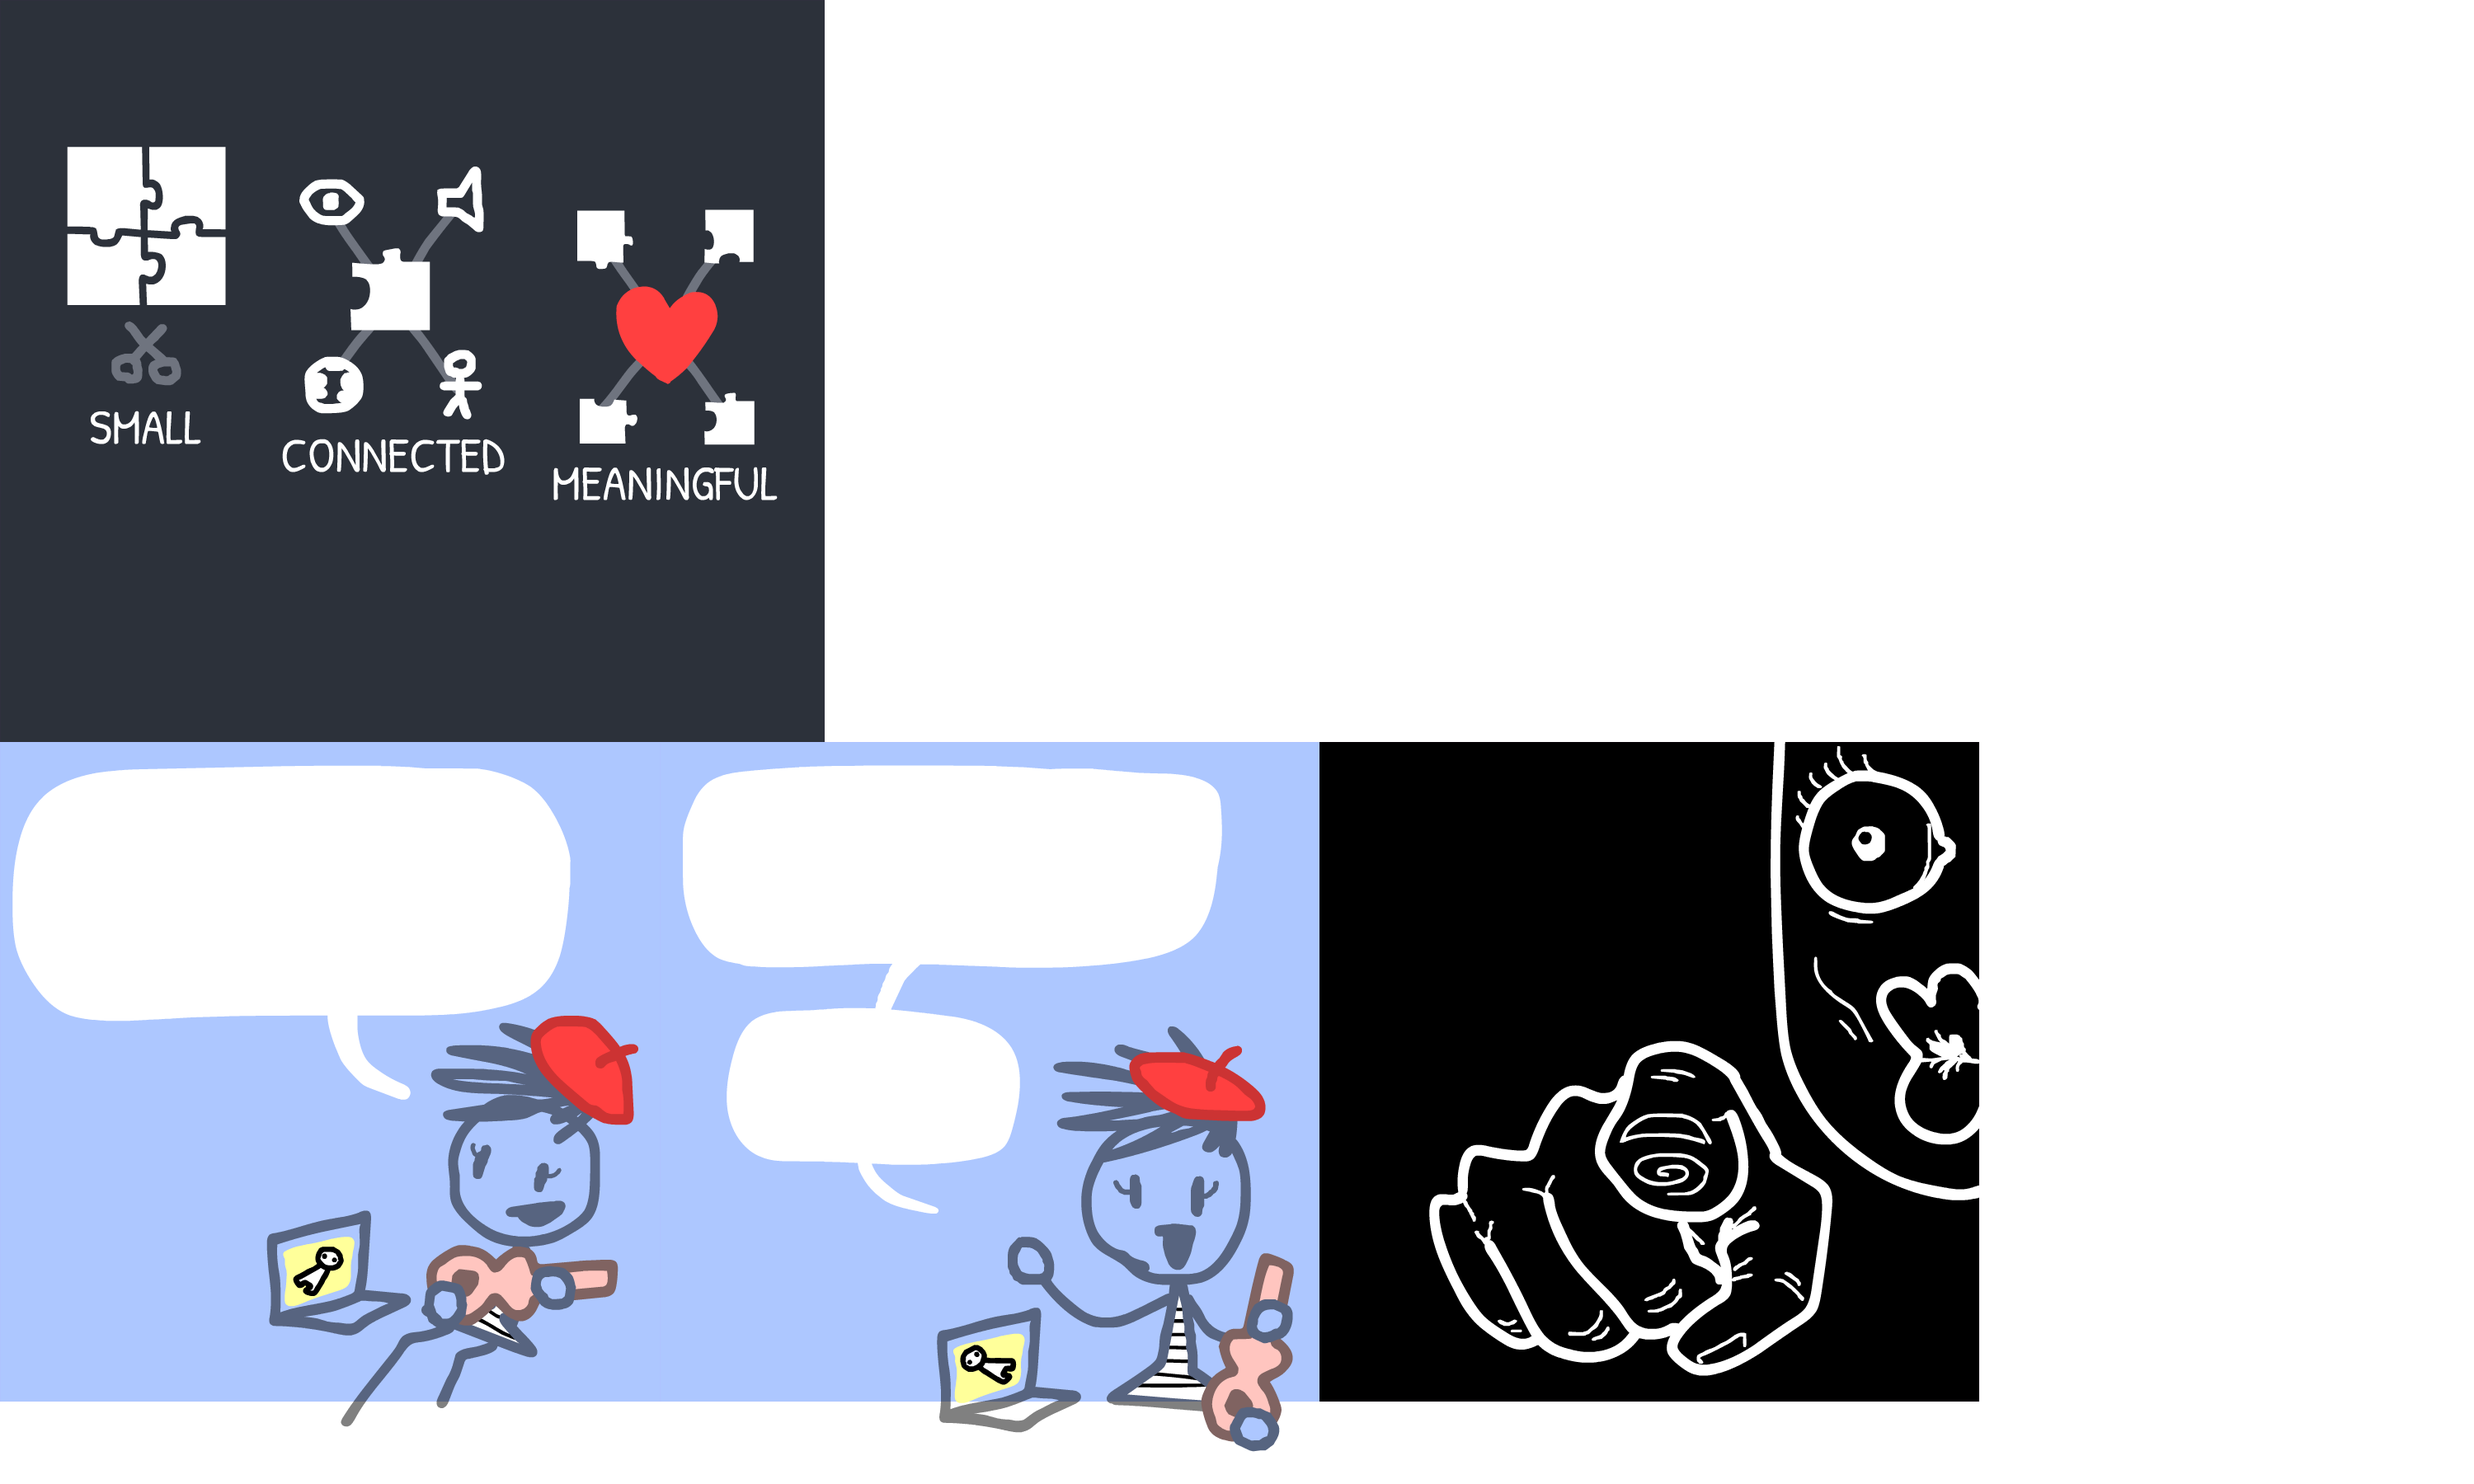
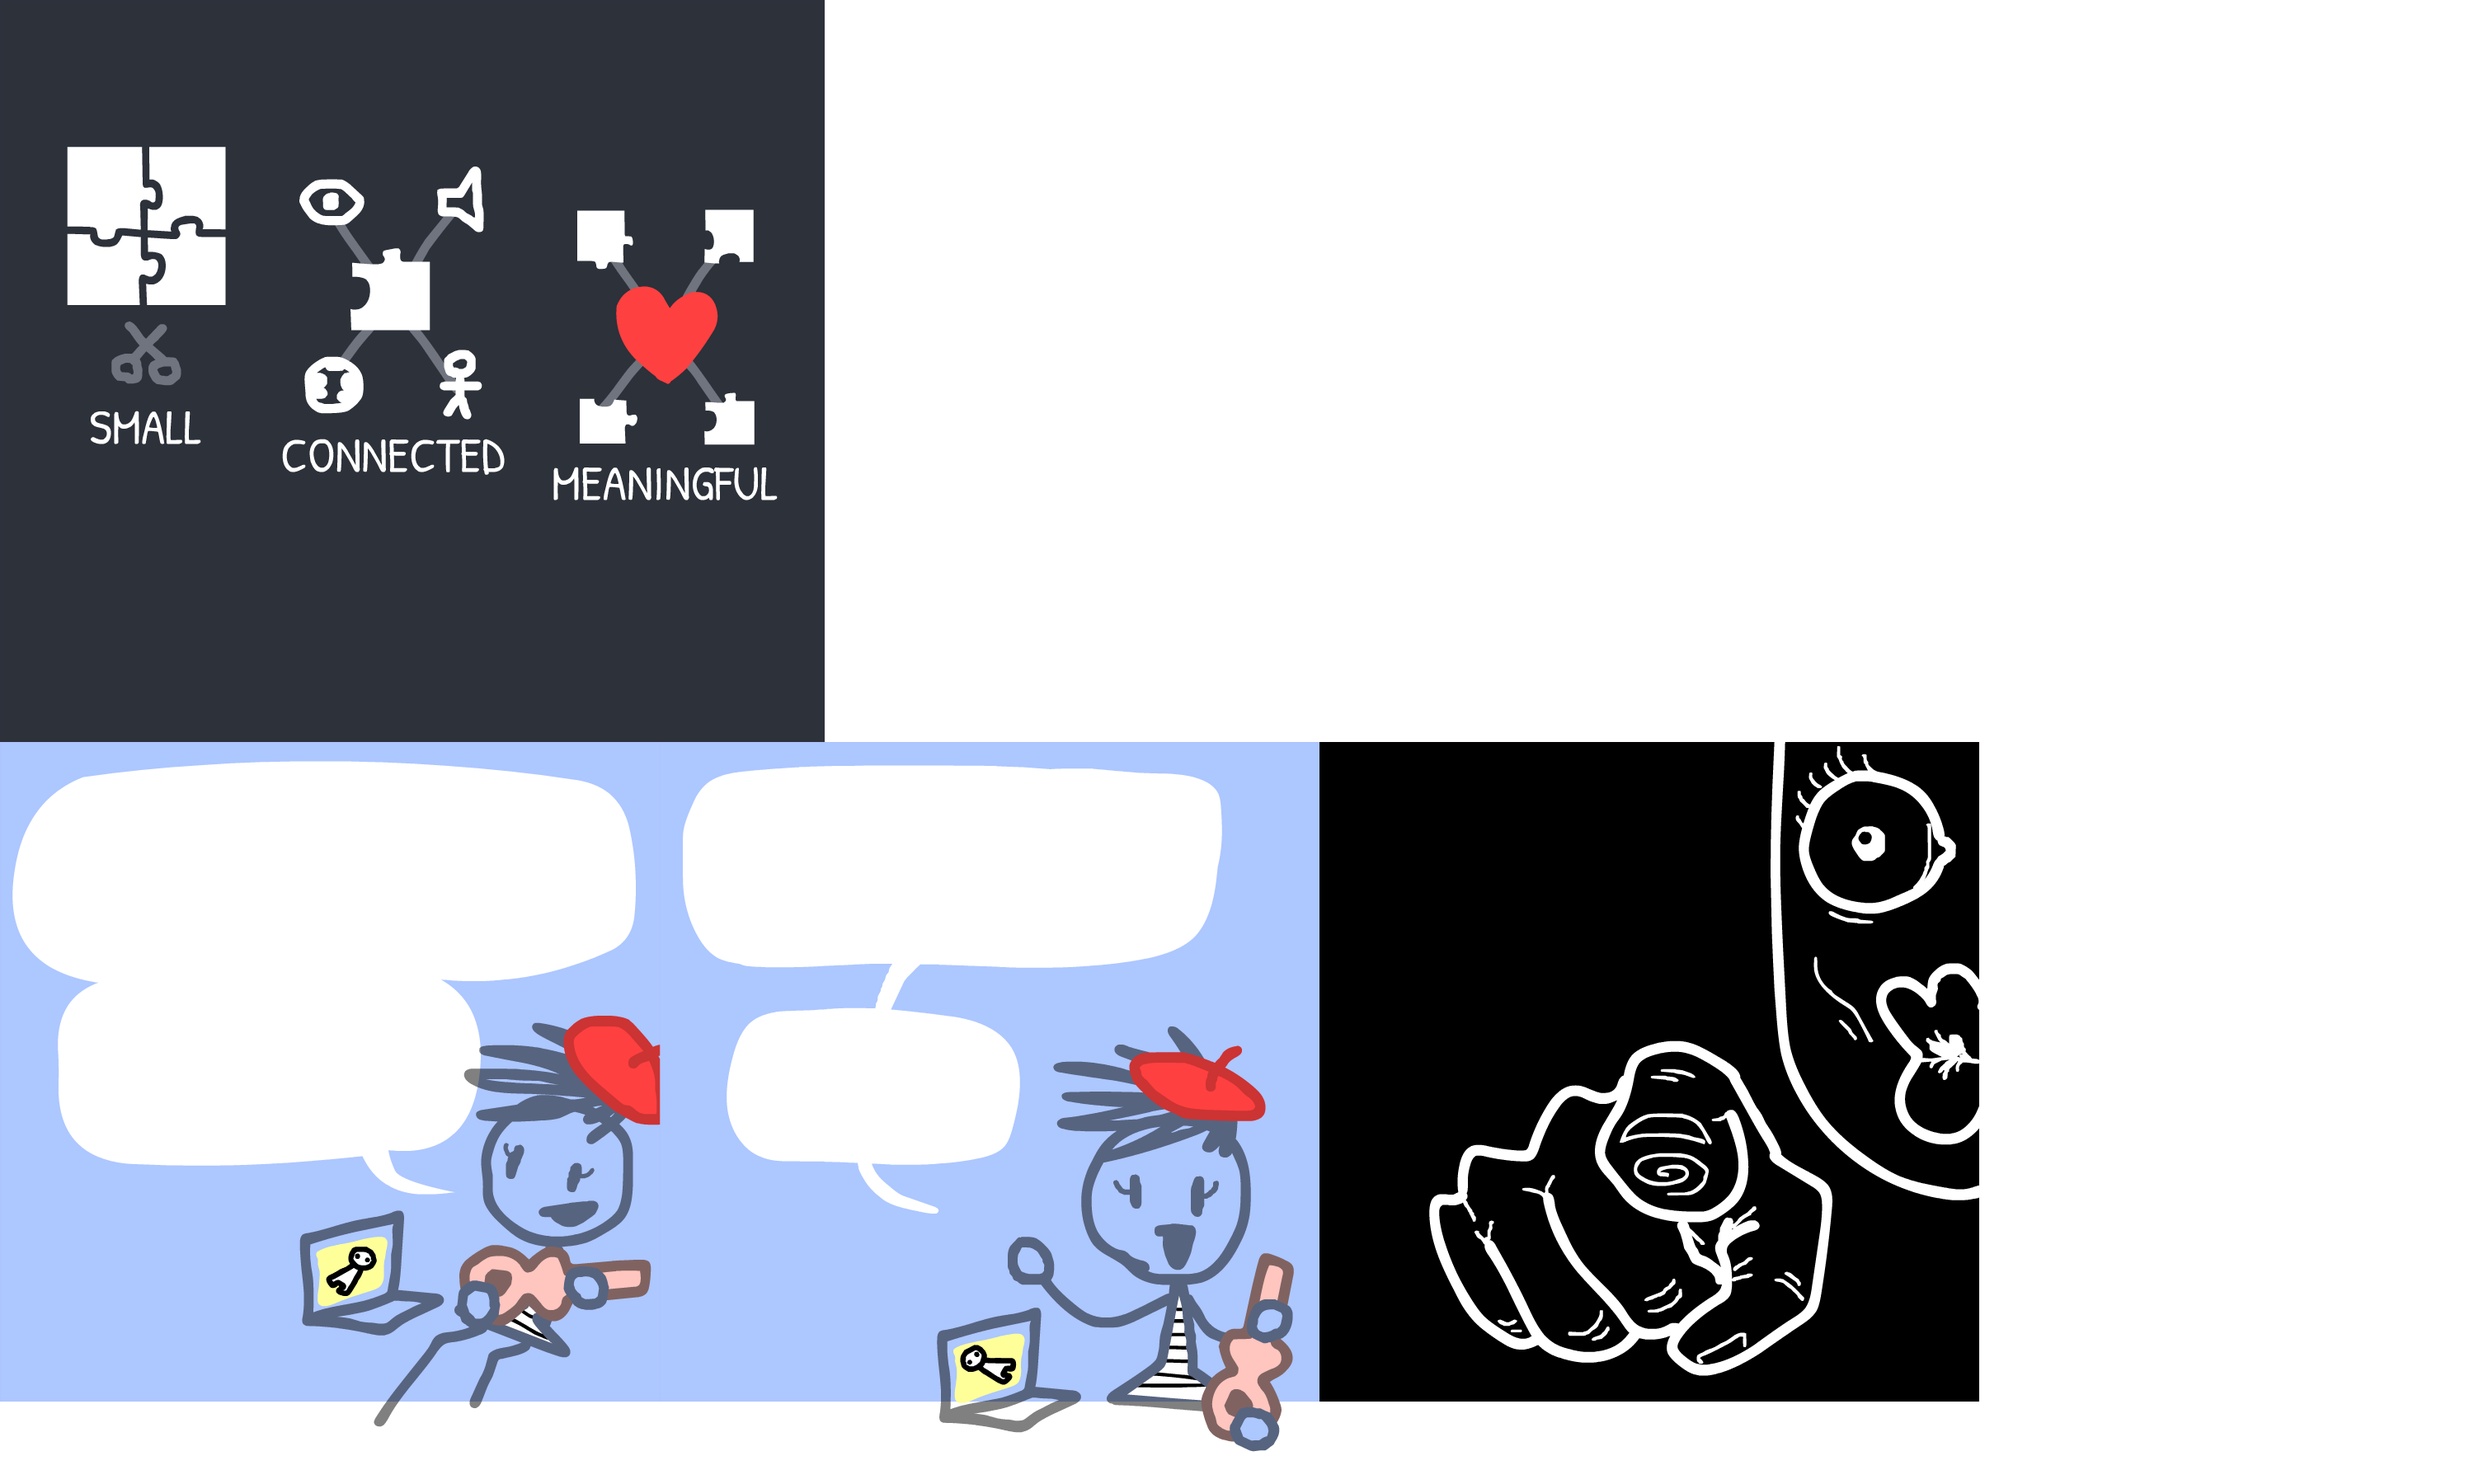
CHAPTER TWO FIXED

Changed region(s): [[0.0, 0.6222, 0.279, 0.9644], [0.217, 0.4978, 0.279, 0.6533], [0.093, 0.4978, 0.124, 0.5289]]

diff --git a/ch2_old.html b/ch2_old.html
@@ -63,57 +63,46 @@ if you haven't already.)
 </words>
 </panel>
 
-<panel w=500 h=370>
-<pic src="pics/leit0.png" sx=0 sy=480></pic>
-<words x=10 y=10 w=430 h=30>
-	All new flashcards start at Level 1.
+<panel w=500 h=400>
+<pic></pic>
+<words x=10 y=10 w=430 h=60>
+	All new cards start at Level 1, then get promoted to higher Levels
+	as your memory of them improves. (I'll explain the details later)
 </words>
-<words x=30 y=270 w=430 h=60>
-	(If you're new to Spaced Repetition, I recommend starting with 5 new cards a day.)
+<words x=30 y=300 w=430 h=60>
+	Thus: Level 1 cards have fast memory-decay, Level 2 cards have slower memory-decay, etc.
+</words>
+</panel>
+
+
+<panel w=500 h=400>
+<pic src="pics/leit0.png" sx=0 sy=1300></pic>
+<words x=10 y=10 w=430 h=90>
+	But remember, we have to try recalling a card <i>just as we're about to forget it</i>.
+</words>
+<words x=30 y=270 w=430 h=90>
+	And as we saw earlier,
+	you do this by scheduling recalls with <i>increasing gaps of time</i>.
 </words>
 </panel>
 
 <panel w=500 h=400>
-<pic src="pics/leit0.png" sx=500 sy=480></pic> <!-- valhalla -->
-<words x=10 y=10 w=430 h=60>
-	When you review a card, and get it right, it moves up <i>one</i> Level.
+<pic src="pics/leit0.png" sx=0 sy=1300></pic>
+<words x=10 y=10 w=430 h=90>
+	That's why, in the Leitner Box,
+	we review Level 1 cards every day,
+	Level 2 every two days,
+	Level 3 every <i>FOUR</i> days,
+	Level 4 every <i>EIGHT</i> days... and so on.
 </words>
-<words x=30 y=300 w=430 h=60>
-	(If you're at the final Level, congrats!
-	Your card gets to retire in your long-term memory)
-</words>
-</panel>
-
-<panel w=500 h=430>
-<pic src="pics/leit0.png" sx=0 sy=900></pic> <!-- HIGH STAKES -->
-<words x=10 y=10 w=430 h=60>
-	But if you review a card, and get it wrong... it has to go
-	<i>all the way back down to Level 1.</i>
-</words>
-<words x=30 y=300 w=430 h=90>
-	(If it's already at Level 1, good news:
-	you can keep testing yourself on it until you get it right,
-	and move it up to Level 2)
-</words>
-</panel>
-
-<panel w=500 h=400>
-<pic src="pics/leit0.png" sx=0 sy=1370></pic>
-<words x=10 y=10 w=430 h=120>
-	But <i>when</i> do we review cards?
-	That's the trick.
-	In the Leitner Box, we review Level 1 cards every day,
-	Level 2 every two days, Level 3 every <i>FOUR</i> days,
-	Level 4 every <i>EIGHT</i> days, etc...
-</words>
-<words x=30 y=300 w=430 h=60>
-	The pattern is: we <i>double the gap</i> (# of days between reviews) for each Level!
+<words x=30 y=270 w=430 h=90>
+	The pattern is: we <i>double</i> the gap between Levels!
 </words>
 </panel>
 
 <panel w=600 h=60>
 <words w=600 x=-15 no-bg>
-	Here's what the looping 64-day game calendar looks like:
+	Here's what that looks like over a 64-day, looping calendar:
 </words>
 </panel>
 
@@ -121,35 +110,68 @@ if you haven't already.)
 <sim x=0 y=0 w=600 h=400 src="sims/calendar/"></sim>
 </panel>
 
-<panel w=500 h=490>
-<pic src="pics/leit0.png" sx=500 sy=870></pic>
-<words x=10 y=10 w=430 h=90>
-	(Note: the reason we review Level 1 at the end
-	is so you see your new cards <i>and</i> the cards you forgot from higher Levels.)
-</words>
-<words x=30 y=330 w=430 h=120>
-	(At the end of a daily game of Spaced Repetition,
-	leave no cards in Level 1.
-	Test yourself until you can get them all right,
-	and move them up to Level 2!)
+
+<!-- Part 1.2: Leitner Rules -->
+
+<panel w=600 h=60>
+<words w=600 x=-15 no-bg>
+	Now, how <i>do</i> you play this game of Spaced Repetition Solitaire?
 </words>
 </panel>
 
-<panel w=400 h=400>
-<pic src="pics/leit0.png" sx=600 sy=1400></pic>
-<words x=10 y=10 w=350 h=90>
-	(Note #2: Spaced Repetition <i>apps</i> like Anki use a more sophisticated algorithm...)
+<panel w=500 h=400>
+<pic src="pics/leit0.png" sx=0 sy=450></pic> <!-- joyful baby card... and grisly card -->
+<words x=10 y=10 w=430 h=60>
+	The rules are simple.
+	First, all new cards start at Level 1.
 </words>
-<words x=10 y=300 w=350 h=60>
-	(...but at its core, it works on the same principles as the Leitner Box)
+<words x=30 y=300 w=430 h=60>
+	(If you're new to Spaced Repetition, I recommend starting with 5 new cards a day.)
+</words>
+</panel>
+
+<panel w=500 h=430>
+<pic src="pics/leit0.png" sx=500 sy=450></pic> <!-- valhalla -->
+<words x=10 y=10 w=430 h=90>
+	Every day, review your Levels from highest to lowest.
+	Shuffle each Level's cards first.
+	Every card you get right goes up <i>one</i> Level.
+</words>
+<words x=30 y=330 w=430 h=60>
+	(If you're at the final Level, congrats!
+	Your card gets to retire in your long-term memory)
+</words>
+</panel>
+
+<panel w=500 h=400>
+<pic src="pics/leit0.png" sx=0 sy=900></pic> <!-- HIGH STAKES -->
+<words x=10 y=10 w=430 h=60>
+	However, every card you get wrong... has to go
+	<i>all the way back down to Level 1.</i>
+</words>
+<words x=30 y=300 w=430 h=60>
+	(You can change the rules – I mean, it's <i>your</i> shoebox –
+	but I recommend playing this way)
+</words>
+</panel>
+
+<panel w=500 h=400>
+<pic src="pics/leit0.png" sx=500 sy=900></pic> <!-- baby + REMEMBER ME?! -->
+<words x=10 y=10 w=430 h=60>
+	Each day, you review Level 1 at the end.
+	You'll see your new cards + the cards you forgot.
+</words>
+<words x=30 y=300 w=430 h=60>
+	Keep trying to recall them, until you can get <i>every one</i> right!
+	Move them all to Level 2.
 </words>
 </panel>
 
 <panel w=600 h=80>
 <words w=600 x=-15 no-bg>
-	And that's all to it!
-	Here's how the game plays out, step by step:
-	(<b>This sim has no end. Once you "get it", just keep scrolling.</b>)
+	And that's all to it! 
+	Here's how the game plays out, over a few days:
+	(<b>There's no end. Once you "get it", just keep scrolling.</b>)
 </words>
 </panel>
 

diff --git a/sims/leitner/leitner.js b/sims/leitner/leitner.js
@@ -37,6 +37,9 @@ window.onload = function(){
 		//$("#MODE2_sliders").style.display = "block";
 	}
 
+	// POINTY
+	_addPointy(MODE==2);
+
 };
 
 //////////////////////////////////////////
@@ -85,6 +88,8 @@ $("#reset").onclick = function(){
 	_STAGE = 0;
 	_newStep();
 	//update();
+
+	_killPointy();
 
 };
 
@@ -142,6 +147,7 @@ function _updateLabels(){
 
 $("#next_step").onclick = function(){
 	_newStep();
+	_killPointy();
 };
 function _newStep(skipLabels){
 	
@@ -207,6 +213,7 @@ function _newStep(skipLabels){
 $("#next_day").onclick = function(){
 	_newDay();
 	_updateLabels();
+	_killPointy();
 };
 function _newDay(skipLabels){
 
@@ -239,9 +246,11 @@ function _reviewMultipleDays(days){
 
 $("#next_week").onclick = function(){
 	_reviewMultipleDays(7);
+	_killPointy();
 };
 $("#next_month").onclick = function(){
 	_reviewMultipleDays(30);
+	_killPointy();
 };
 
 //////////////////////////////////////////
@@ -486,4 +495,22 @@ function _drawArrow(fail){
 	var label = (fail ? "-" : "+") + ann.N;
 	ctx.fillText(label, cp.x, cp.y+15);
 
+}
+
+//////////////////////////////////////////
+//////////////////////////////////////////
+
+function _addPointy(mode2){
+
+	window.pointy = new createAnimatedUIHelper({
+		x: mode2 ? 380 : 120,
+		y: 50,
+		width: 100,
+		height: 100,
+		img: "../../pics/ui_point.png"
+	});
+
+}
+function _killPointy(){
+	if(window.pointy) window.pointy.kill();
 }

diff --git a/sims/leitner/leitner.css b/sims/leitner/leitner.css
@@ -48,3 +48,48 @@ body{
 #MODE2_time, #MODE2_sliders{
 	display:none;
 }
+
+button{
+	font-size:18px;
+	font-family: "PatrickHand", Helvetica, Arial;
+	background: #fff;
+	border: 1px solid #ccc;
+	border-radius: 5px;
+	cursor: pointer;
+	position: relative;
+}
+button:focus {
+	outline:0;
+}
+button:hover{
+	top:-2px;
+}
+
+input[type=range]{
+	-webkit-appearance: none;
+	-moz-appearance: none;
+	appearance: none;
+	height: 2px;
+    border-radius: 5px;   
+    background: #d3d3d3;
+    outline: none;
+    margin-top: 20px;
+    margin-bottom: 30px;
+}
+input[type=range]::-webkit-slider-thumb{
+    -webkit-appearance: none;
+    appearance: none;
+    width: 15px;
+    height: 35px;
+    border-radius: 8px; 
+    background: #333;
+    cursor: pointer;
+}
+input[type=range]::-moz-range-thumb{
+	width: 15px;
+    height: 35px;
+    border-radius: 8px; 
+    background: #333;
+    cursor: pointer;
+}
+

diff --git a/sims/calendar/calendar.css b/sims/calendar/calendar.css
@@ -33,3 +33,32 @@ body{
 #default_labels{
 	display:none;
 }
+
+input[type=range]{
+	-webkit-appearance: none;
+	-moz-appearance: none;
+	appearance: none;
+	height: 2px;
+    border-radius: 5px;   
+    background: #d3d3d3;
+    outline: none;
+    margin-top: 15px;
+    margin-bottom: 15px;
+}
+input[type=range]::-webkit-slider-thumb{
+    -webkit-appearance: none;
+    appearance: none;
+    width: 15px;
+    height: 35px;
+    border-radius: 8px; 
+    background: #333;
+    cursor: pointer;
+}
+input[type=range]::-moz-range-thumb{
+	width: 15px;
+    height: 35px;
+    border-radius: 8px; 
+    background: #333;
+    cursor: pointer;
+}
+

diff --git a/sims/calendar/calendar.js b/sims/calendar/calendar.js
@@ -45,6 +45,9 @@ daySlider.oninput = function(){
 	var QUEUE = CALENDAR[DAY-1]; // -1 offset
 	$("#label_review").innerHTML = _getLabel("calendar_review").replace("[N]", QUEUE.toString() );
 
+	// KILL SLIDEY
+	if(window.slidey) window.slidey.kill();
+
 }
 
 window.REDRAW = 0;
@@ -143,6 +146,16 @@ function update(){
 }
 
 window.onload = function(){
+
 	daySlider.oninput();
 	update();
+
+	window.slidey = new createAnimatedUIHelper({
+		x: 8,
+		y: 95,
+		width: 100,
+		height: 100,
+		img: "../../pics/ui_slide.png"
+	});
+
 };

diff --git a/sims/singlecard/singlecard.js b/sims/singlecard/singlecard.js
@@ -1,4 +1,5 @@
 window.front_only = _getQueryVariable("front_only");
+window.forever_card = (_getQueryVariable("forever_card")=="yes");
 window.FRONT_ONLY = (front_only && front_only=="yes");
 
 var flashcard = $("#flashcard");
@@ -34,8 +35,9 @@ if(!FRONT_ONLY){
 			},1000);
 
 			// AND REMOVE UI
-			// TODO: unless it's the forever-card
-			clicky.kill();
+			if(!window.forever_card){
+				clicky.kill();
+			}
 
 		}
 

diff --git a/ch1.html b/ch1.html
@@ -3,7 +3,8 @@
 <head>
 	<meta charset="UTF-8">
 	<title>An Interactive Comic</title>
-
+	<!--
+	TODO: Active recall vs passive re-read -->
 	<link rel="stylesheet" type="text/css" href="css/comic.css"/>
 
 </head>
